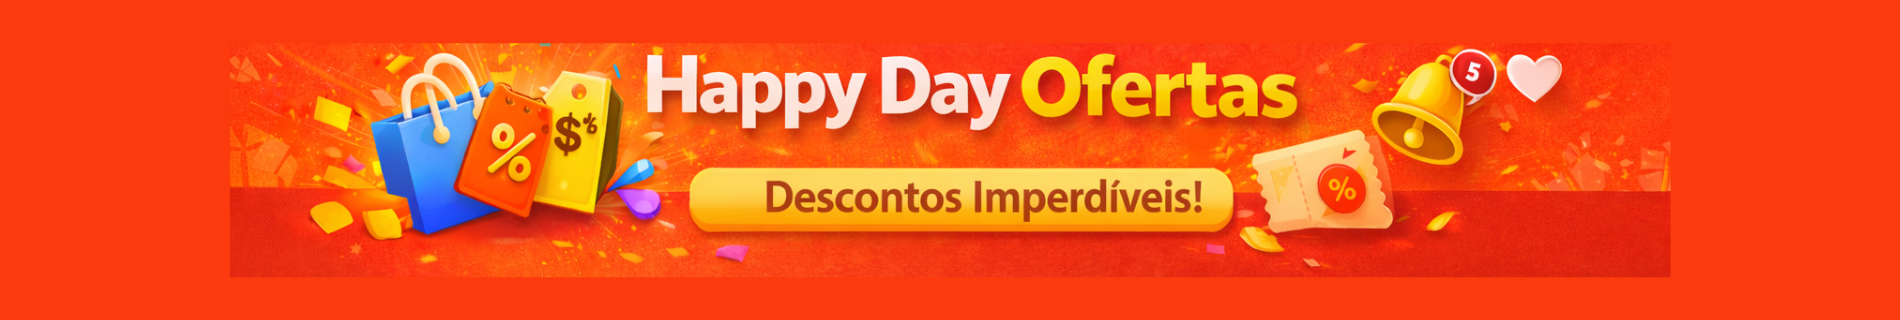
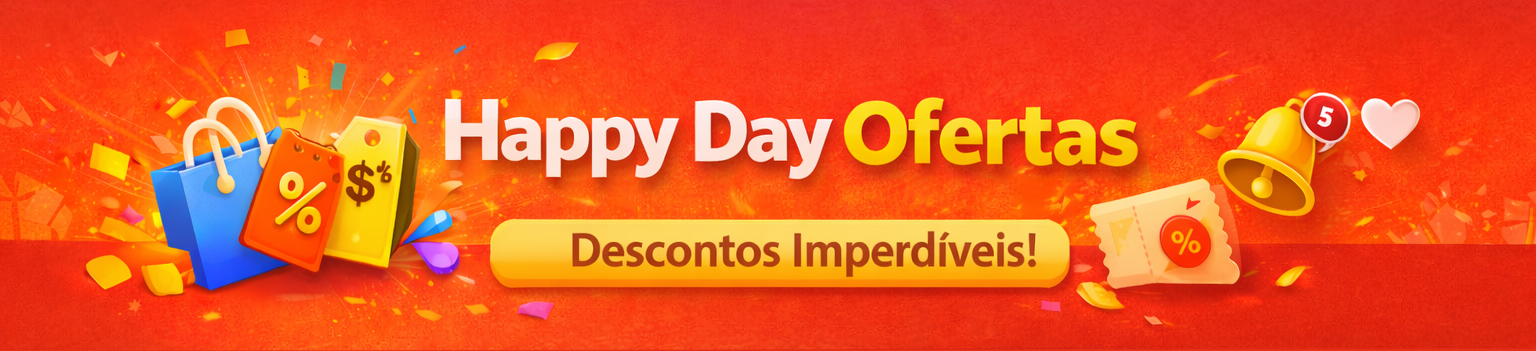
site sync shopee: +0 ~0 -0

diff --git a/index.html b/index.html
@@ -12,7 +12,9 @@
     .hero{position:relative;overflow:hidden}
     .hero-banner{height:132px;background:radial-gradient(circle at top,#ffb14c 0%,rgba(255,177,76,.25) 18%,transparent 42%),linear-gradient(135deg,rgba(255,255,255,.14),rgba(255,255,255,.04));display:flex;align-items:center;justify-content:center}
     .hero-banner.has-image{background-size:cover;background-position:center}
-    .hero-banner .hero-content{display:none}
+    .hero-content{position:relative;display:flex;flex-direction:column;align-items:center;gap:6px;padding:0 16px;text-align:center}
+    .hero-title{font-size:clamp(1.9rem,4vw,3rem);font-weight:900;letter-spacing:-.03em;text-shadow:0 3px 12px rgba(128,20,0,.35)}
+    .hero-subtitle{background:#ffd24f;color:#9d3300;padding:7px 16px;border-radius:999px;font-size:1rem;font-weight:800;box-shadow:0 8px 20px rgba(255,210,79,.32)}
     .hero-banner::after{content:'';position:absolute;inset:auto 0 0 0;height:42px;background:linear-gradient(180deg,rgba(0,0,0,0),rgba(145,29,4,.35))}
     .toolbar{padding:12px 16px 14px;background:linear-gradient(180deg,rgba(255,255,255,.05),rgba(0,0,0,.08));border-top:1px solid rgba(255,255,255,.15)}
     .search-row{display:flex;gap:10px;max-width:760px;margin:0 auto;align-items:center}
@@ -43,10 +45,15 @@
     .hidden{display:none!important}
     @media (max-width: 640px){
       .hero-banner{height:116px}
+      .hero-banner .hero-content{display:none}
       .search-row{gap:8px}
       .search-row button,.icon-btn{padding:10px 12px}
       .grid{grid-template-columns:repeat(2,minmax(0,1fr));padding:14px;gap:12px}
       .card{padding:10px}
+    }
+    @media (min-width: 641px){
+      .hero-banner.has-image{background-image:none!important}
+      .hero-banner .hero-content{display:flex}
     }
   </style>
 </head>
@@ -124,10 +131,12 @@ async function init(){
     document.documentElement.style.setProperty('--on-color',onColor);
     const t=d.account_name||'Produtos';
     document.getElementById('page-title').textContent=t;
+    const headerTitle=document.getElementById('header-title');
+    if(headerTitle){headerTitle.textContent=t;}
     const hero=document.getElementById('hero-banner');
     if(d.header_banner_url){
       hero.classList.add('has-image');
-      hero.style.backgroundImage=`linear-gradient(180deg,rgba(255,104,32,.10),rgba(182,47,18,.18)),url('${d.header_banner_url}?t=${Date.now()}')`;
+      hero.style.backgroundImage=`linear-gradient(180deg,rgba(255,104,32,.10),rgba(182,47,18,.18)),url('${d.header_banner_url}?v=${encodeURIComponent(d.updated_at||Date.now())}')`;
     }
     all=(d.products||[]).sort((a,b)=>b.num-a.num);
     applyFilters();
